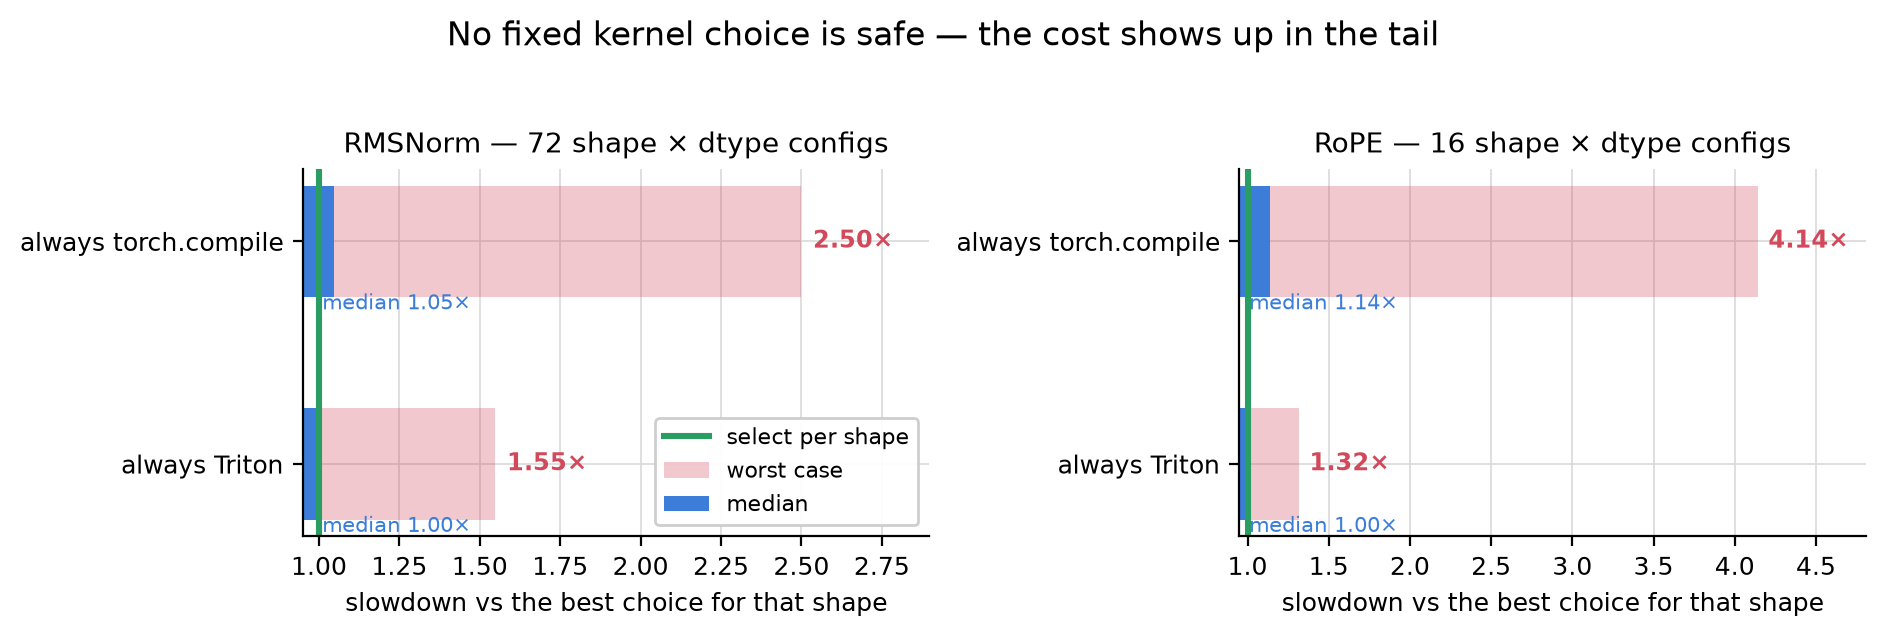
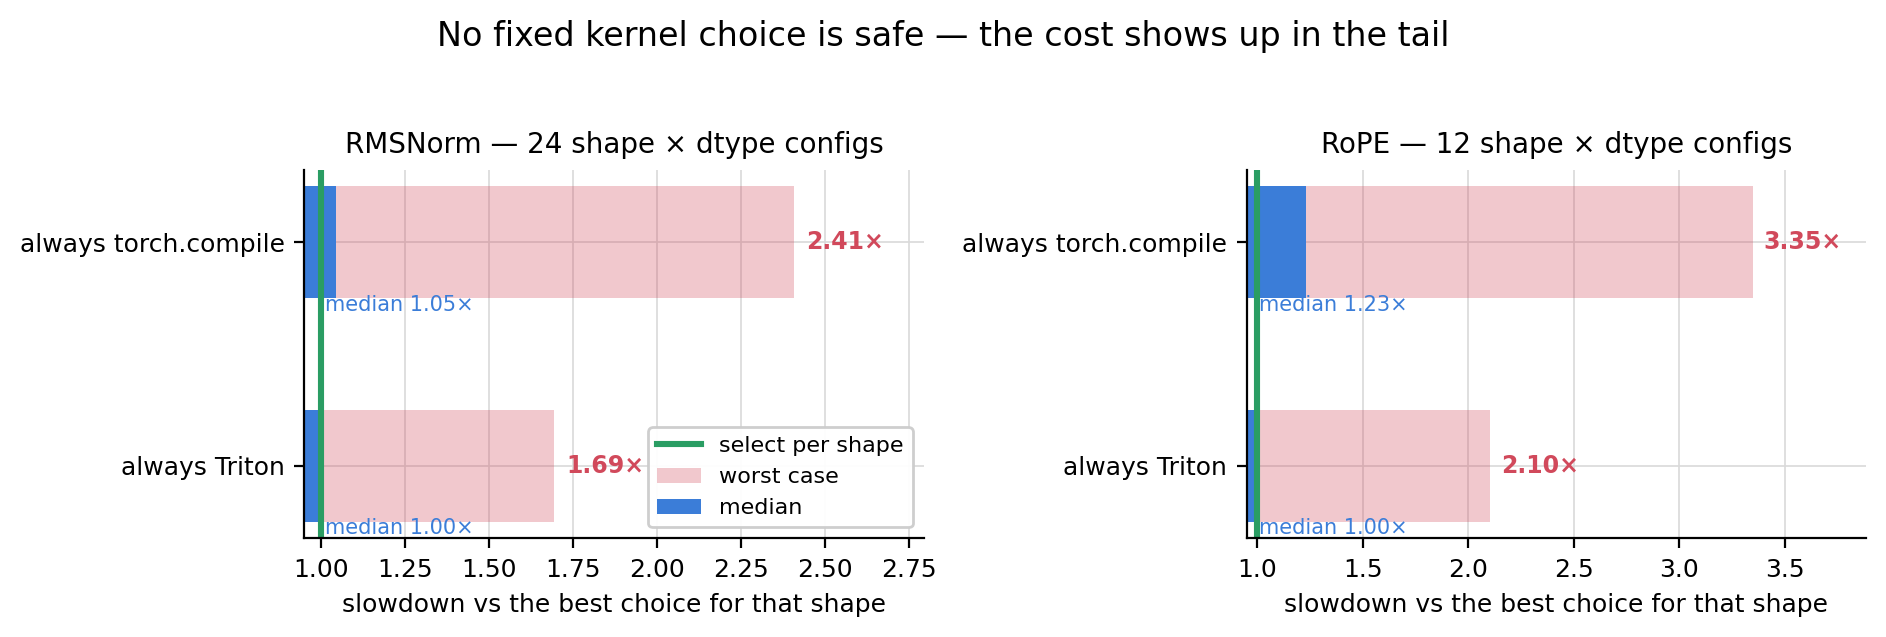
docs(results): regenerate RESULTS.md and plots from committed reports

diff --git a/docs/RESULTS.md b/docs/RESULTS.md
@@ -89,99 +89,47 @@ CUDA pipeline available — run: pytest -q
 
 | Shape | Dtype | Baseline p50 (ms) | Triton p50 (ms) | Speedup | Max error |
 |-------|-------|-------------------|-----------------|---------|-----------|
-| `(1, 512, 1024)` | float16 | 0.369 | 0.113 | 3.27× | 1.95e-03 |
-| `(1, 512, 1024)` | bfloat16 | 0.372 | 0.116 | 3.21× | 0.00e+00 |
-| `(1, 512, 2048)` | float16 | 0.315 | 0.178 | 1.77× | 9.77e-04 |
-| `(1, 512, 2048)` | bfloat16 | 0.430 | 0.109 | 3.94× | 0.00e+00 |
-| `(1, 512, 4096)` | float16 | 0.308 | 0.137 | 2.25× | 1.95e-03 |
-| `(1, 512, 4096)` | bfloat16 | 0.335 | 0.150 | 2.24× | 0.00e+00 |
-| `(1, 2048, 1024)` | float16 | 0.362 | 0.121 | 3.00× | 1.95e-03 |
-| `(1, 2048, 1024)` | bfloat16 | 0.812 | 0.199 | 4.07× | 1.56e-02 |
-| `(1, 2048, 2048)` | float16 | 0.626 | 0.111 | 5.62× | 1.95e-03 |
-| `(1, 2048, 2048)` | bfloat16 | 0.557 | 0.175 | 3.18× | 1.56e-02 |
-| `(1, 2048, 4096)` | float16 | 1.016 | 0.208 | 4.88× | 1.95e-03 |
-| `(1, 2048, 4096)` | bfloat16 | 1.020 | 0.126 | 8.11× | 7.81e-03 |
-| `(1, 4096, 1024)` | float16 | 0.568 | 0.152 | 3.73× | 1.95e-03 |
-| `(1, 4096, 1024)` | bfloat16 | 0.573 | 0.114 | 5.04× | 1.56e-02 |
-| `(1, 4096, 2048)` | float16 | 1.002 | 0.120 | 8.33× | 1.95e-03 |
-| `(1, 4096, 2048)` | bfloat16 | 1.008 | 0.178 | 5.65× | 7.81e-03 |
-| `(1, 4096, 4096)` | float16 | 1.948 | 0.225 | 8.65× | 1.95e-03 |
-| `(1, 4096, 4096)` | bfloat16 | 1.880 | 0.240 | 7.84× | 7.81e-03 |
-| `(4, 512, 1024)` | float16 | 0.504 | 0.108 | 4.66× | 9.77e-04 |
-| `(4, 512, 1024)` | bfloat16 | 0.412 | 0.196 | 2.10× | 1.56e-02 |
-| `(4, 512, 2048)` | float16 | 0.587 | 0.132 | 4.43× | 1.95e-03 |
-| `(4, 512, 2048)` | bfloat16 | 0.544 | 0.192 | 2.83× | 0.00e+00 |
-| `(4, 512, 4096)` | float16 | 1.022 | 0.189 | 5.42× | 1.95e-03 |
-| `(4, 512, 4096)` | bfloat16 | 1.025 | 0.159 | 6.45× | 0.00e+00 |
-| `(4, 2048, 1024)` | float16 | 1.022 | 0.149 | 6.85× | 1.95e-03 |
-| `(4, 2048, 1024)` | bfloat16 | 1.015 | 0.122 | 8.28× | 7.81e-03 |
-| `(4, 2048, 2048)` | float16 | 1.865 | 0.222 | 8.41× | 1.95e-03 |
-| `(4, 2048, 2048)` | bfloat16 | 1.863 | 0.247 | 7.56× | 1.56e-02 |
-| `(4, 2048, 4096)` | float16 | 3.601 | 0.564 | 6.39× | 1.95e-03 |
-| `(4, 2048, 4096)` | bfloat16 | 3.649 | 0.485 | 7.52× | 1.56e-02 |
-| `(4, 4096, 1024)` | float16 | 1.861 | 0.223 | 8.34× | 1.95e-03 |
-| `(4, 4096, 1024)` | bfloat16 | 1.857 | 0.255 | 7.28× | 1.56e-02 |
-| `(4, 4096, 2048)` | float16 | 3.637 | 0.502 | 7.24× | 1.95e-03 |
-| `(4, 4096, 2048)` | bfloat16 | 3.616 | 0.523 | 6.91× | 1.56e-02 |
-| `(4, 4096, 4096)` | float16 | 7.390 | 0.991 | 7.46× | 1.95e-03 |
-| `(4, 4096, 4096)` | bfloat16 | 7.508 | 0.935 | 8.03× | 1.56e-02 |
-| `(8, 512, 1024)` | float16 | 0.587 | 0.116 | 5.09× | 1.95e-03 |
-| `(8, 512, 1024)` | bfloat16 | 0.638 | 0.161 | 3.95× | 3.91e-03 |
-| `(8, 512, 2048)` | float16 | 1.075 | 0.228 | 4.72× | 1.95e-03 |
-| `(8, 512, 2048)` | bfloat16 | 1.033 | 0.173 | 5.97× | 7.81e-03 |
-| `(8, 512, 4096)` | float16 | 1.923 | 0.230 | 8.36× | 1.95e-03 |
-| `(8, 512, 4096)` | bfloat16 | 1.933 | 0.250 | 7.73× | 1.56e-02 |
-| `(8, 2048, 1024)` | float16 | 1.929 | 0.238 | 8.10× | 1.95e-03 |
-| `(8, 2048, 1024)` | bfloat16 | 1.937 | 0.443 | 4.37× | 7.81e-03 |
-| `(8, 2048, 2048)` | float16 | 3.749 | 0.454 | 8.26× | 1.95e-03 |
-| `(8, 2048, 2048)` | bfloat16 | 3.811 | 0.560 | 6.80× | 1.56e-02 |
-| `(8, 2048, 4096)` | float16 | 7.903 | 1.180 | 6.70× | 1.95e-03 |
-| `(8, 2048, 4096)` | bfloat16 | 7.935 | 0.926 | 8.57× | 1.56e-02 |
-| `(8, 4096, 1024)` | float16 | 3.760 | 0.574 | 6.55× | 1.95e-03 |
-| `(8, 4096, 1024)` | bfloat16 | 3.753 | 0.534 | 7.03× | 1.56e-02 |
-| `(8, 4096, 2048)` | float16 | 7.935 | 0.861 | 9.21× | 1.95e-03 |
-| `(8, 4096, 2048)` | bfloat16 | 7.798 | 1.015 | 7.68× | 1.56e-02 |
-| `(8, 4096, 4096)` | float16 | 15.985 | 1.715 | 9.32× | 1.95e-03 |
-| `(8, 4096, 4096)` | bfloat16 | 15.788 | 1.707 | 9.25× | 1.56e-02 |
-| `(16, 512, 1024)` | float16 | 1.117 | 0.136 | 8.23× | 1.95e-03 |
-| `(16, 512, 1024)` | bfloat16 | 1.120 | 0.203 | 5.51× | 1.56e-02 |
-| `(16, 512, 2048)` | float16 | 2.017 | 0.251 | 8.04× | 1.95e-03 |
-| `(16, 512, 2048)` | bfloat16 | 2.031 | 0.390 | 5.21× | 1.56e-02 |
-| `(16, 512, 4096)` | float16 | 3.923 | 0.533 | 7.36× | 1.95e-03 |
-| `(16, 512, 4096)` | bfloat16 | 3.984 | 0.570 | 6.99× | 7.81e-03 |
-| `(16, 2048, 1024)` | float16 | 3.916 | 0.687 | 5.70× | 1.95e-03 |
-| `(16, 2048, 1024)` | bfloat16 | 3.883 | 0.652 | 5.95× | 1.56e-02 |
-| `(16, 2048, 2048)` | float16 | 8.421 | 0.960 | 8.77× | 3.91e-03 |
-| `(16, 2048, 2048)` | bfloat16 | 8.308 | 0.945 | 8.79× | 1.56e-02 |
-| `(16, 2048, 4096)` | float16 | 16.157 | 1.691 | 9.56× | 1.95e-03 |
-| `(16, 2048, 4096)` | bfloat16 | 15.901 | 1.744 | 9.12× | 1.56e-02 |
-| `(16, 4096, 1024)` | float16 | 8.398 | 0.903 | 9.30× | 1.95e-03 |
-| `(16, 4096, 1024)` | bfloat16 | 8.069 | 0.936 | 8.62× | 1.56e-02 |
-| `(16, 4096, 2048)` | float16 | 15.741 | 1.718 | 9.16× | 1.95e-03 |
-| `(16, 4096, 2048)` | bfloat16 | 15.776 | 1.729 | 9.12× | 1.56e-02 |
-| `(16, 4096, 4096)` | float16 | 31.264 | 3.259 | 9.59× | 3.91e-03 |
-| `(16, 4096, 4096)` | bfloat16 | 30.710 | 3.417 | 8.99× | 1.56e-02 |
+| `(1, 1, 2048)` | float16 | 0.378 | 0.099 | 3.82× | 0.00e+00 |
+| `(1, 1, 2048)` | bfloat16 | 0.332 | 0.061 | 5.47× | 0.00e+00 |
+| `(1, 1, 4096)` | float16 | 0.264 | 0.067 | 3.97× | 0.00e+00 |
+| `(1, 1, 4096)` | bfloat16 | 0.222 | 0.112 | 1.99× | 0.00e+00 |
+| `(1, 512, 2048)` | float16 | 0.473 | 0.061 | 7.71× | 1.95e-03 |
+| `(1, 512, 2048)` | bfloat16 | 0.269 | 0.043 | 6.21× | 0.00e+00 |
+| `(1, 512, 4096)` | float16 | 0.394 | 0.181 | 2.17× | 9.77e-04 |
+| `(1, 512, 4096)` | bfloat16 | 0.593 | 0.063 | 9.41× | 0.00e+00 |
+| `(1, 2048, 2048)` | float16 | 0.846 | 0.125 | 6.79× | 1.95e-03 |
+| `(1, 2048, 2048)` | bfloat16 | 0.560 | 0.109 | 5.12× | 7.81e-03 |
+| `(1, 2048, 4096)` | float16 | 1.047 | 0.145 | 7.24× | 1.95e-03 |
+| `(1, 2048, 4096)` | bfloat16 | 1.119 | 0.089 | 12.57× | 0.00e+00 |
+| `(8, 1, 2048)` | float16 | 0.173 | 0.279 | 0.62× | 4.88e-04 |
+| `(8, 1, 2048)` | bfloat16 | 0.836 | 0.148 | 5.64× | 0.00e+00 |
+| `(8, 1, 4096)` | float16 | 0.452 | 0.101 | 4.47× | 0.00e+00 |
+| `(8, 1, 4096)` | bfloat16 | 0.233 | 0.126 | 1.84× | 0.00e+00 |
+| `(8, 512, 2048)` | float16 | 1.113 | 0.102 | 10.92× | 1.95e-03 |
+| `(8, 512, 2048)` | bfloat16 | 1.015 | 0.093 | 10.87× | 7.81e-03 |
+| `(8, 512, 4096)` | float16 | 2.084 | 0.193 | 10.82× | 1.95e-03 |
+| `(8, 512, 4096)` | bfloat16 | 2.061 | 0.190 | 10.82× | 7.81e-03 |
+| `(8, 2048, 2048)` | float16 | 4.666 | 0.409 | 11.42× | 1.95e-03 |
+| `(8, 2048, 2048)` | bfloat16 | 4.638 | 0.510 | 9.09× | 7.81e-03 |
+| `(8, 2048, 4096)` | float16 | 8.826 | 0.815 | 10.84× | 1.95e-03 |
+| `(8, 2048, 4096)` | bfloat16 | 8.792 | 0.803 | 10.94× | 1.56e-02 |
 
 ## RoPE benchmark
 
 | Shape | Dtype | Baseline p50 (ms) | Triton p50 (ms) | Speedup | Max error |
 |-------|-------|-------------------|-----------------|---------|-----------|
-| `(1, 512, 32, 64)` | float16 | 0.547 | 0.100 | 5.46× | 1.95e-03 |
-| `(1, 512, 32, 64)` | bfloat16 | 0.263 | 0.170 | 1.55× | 3.91e-03 |
-| `(1, 512, 32, 128)` | float16 | 0.424 | 0.181 | 2.35× | 1.95e-03 |
-| `(1, 512, 32, 128)` | bfloat16 | 0.621 | 0.115 | 5.41× | 1.56e-02 |
-| `(1, 2048, 32, 64)` | float16 | 0.696 | 0.147 | 4.73× | 1.95e-03 |
-| `(1, 2048, 32, 64)` | bfloat16 | 0.674 | 0.213 | 3.17× | 7.81e-03 |
-| `(1, 2048, 32, 128)` | float16 | 1.256 | 0.155 | 8.12× | 1.95e-03 |
-| `(1, 2048, 32, 128)` | bfloat16 | 1.253 | 0.169 | 7.42× | 7.81e-03 |
-| `(8, 512, 32, 64)` | float16 | 1.226 | 0.303 | 4.05× | 1.95e-03 |
-| `(8, 512, 32, 64)` | bfloat16 | 1.260 | 0.295 | 4.26× | 1.56e-02 |
-| `(8, 512, 32, 128)` | float16 | 2.353 | 0.302 | 7.79× | 1.95e-03 |
-| `(8, 512, 32, 128)` | bfloat16 | 2.363 | 0.286 | 8.27× | 1.56e-02 |
-| `(8, 2048, 32, 64)` | float16 | 4.597 | 0.889 | 5.17× | 1.95e-03 |
-| `(8, 2048, 32, 64)` | bfloat16 | 4.696 | 0.872 | 5.39× | 7.81e-03 |
-| `(8, 2048, 32, 128)` | float16 | 9.662 | 1.042 | 9.27× | 1.95e-03 |
-| `(8, 2048, 32, 128)` | bfloat16 | 9.736 | 1.180 | 8.25× | 1.56e-02 |
+| `(1, 1, 32, 128)` | float16 | 0.178 | 0.059 | 3.01× | 0.00e+00 |
+| `(1, 1, 32, 128)` | bfloat16 | 0.221 | 0.164 | 1.35× | 0.00e+00 |
+| `(1, 512, 32, 128)` | float16 | 0.511 | 0.159 | 3.22× | 9.77e-04 |
+| `(1, 512, 32, 128)` | bfloat16 | 0.384 | 0.077 | 4.99× | 3.91e-03 |
+| `(1, 2048, 32, 128)` | float16 | 1.268 | 0.294 | 4.30× | 1.95e-03 |
+| `(1, 2048, 32, 128)` | bfloat16 | 1.227 | 0.282 | 4.34× | 7.81e-03 |
+| `(8, 1, 32, 128)` | float16 | 0.256 | 0.056 | 4.56× | 0.00e+00 |
+| `(8, 1, 32, 128)` | bfloat16 | 0.256 | 0.063 | 4.08× | 0.00e+00 |
+| `(8, 512, 32, 128)` | float16 | 2.594 | 0.656 | 3.95× | 1.95e-03 |
+| `(8, 512, 32, 128)` | bfloat16 | 2.626 | 0.236 | 11.12× | 7.81e-03 |
+| `(8, 2048, 32, 128)` | float16 | 11.097 | 2.761 | 4.02× | 1.95e-03 |
+| `(8, 2048, 32, 128)` | bfloat16 | 10.679 | 1.140 | 9.36× | 1.56e-02 |
 
 ## Serving simulation
 
@@ -191,14 +139,21 @@ cannot cover.
 
 | Policy | Total (ms) | Prefill (ms) | Decode (ms) | TTFT p50 | TTFT p95 | vs best |
 |--------|-----------:|-------------:|------------:|---------:|---------:|--------:|
-| *(missing serving_simulation.json)* | | | | | | |
+| eager | 26054.531 | 811.534 | 25242.997 | 53.997 | 484.589 | 1.00x |
+| adaptive | 28613.457 | 5143.343 | 23470.114 | 329.234 | 3092.669 | 1.10x |
+| triton | 30344.832 | 5154.085 | 25190.746 | 137.734 | 4308.345 | 1.16x |
+| compile | 55236.711 | 15993.571 | 39243.140 | 35.157 | 15583.846 | 2.12x |
+
+Trace: 64 requests in 8 batches, prompt lengths 31-1024 (median 256), max batch 8, seed 0.
+
+Adaptive selection overtakes: eager never, compile at batch 0, triton at batch 0 (autotuning amortization).
 
 ## End-to-end decoder profile
 
 | Pass | eager (ms) | torch.compile (ms) | AKO (ms) | vs eager | vs best baseline |
 |------|-----------|--------------------|----------|----------|------------------|
-| prefill | 10.394 | 10.749 | 8.385 | 1.24× | 1.24× (torch) |
-| decode | 9.424 | 8.785 | 12.714 | 0.74× | 0.69× (torch_compile) |
+| prefill | 11.692 | 11.158 | 9.038 | 1.29× | 1.24× (torch_compile) |
+| decode | 10.057 | 7.944 | 12.228 | 0.82× | 0.65× (torch_compile) |
 
 ## GPU tests
 
